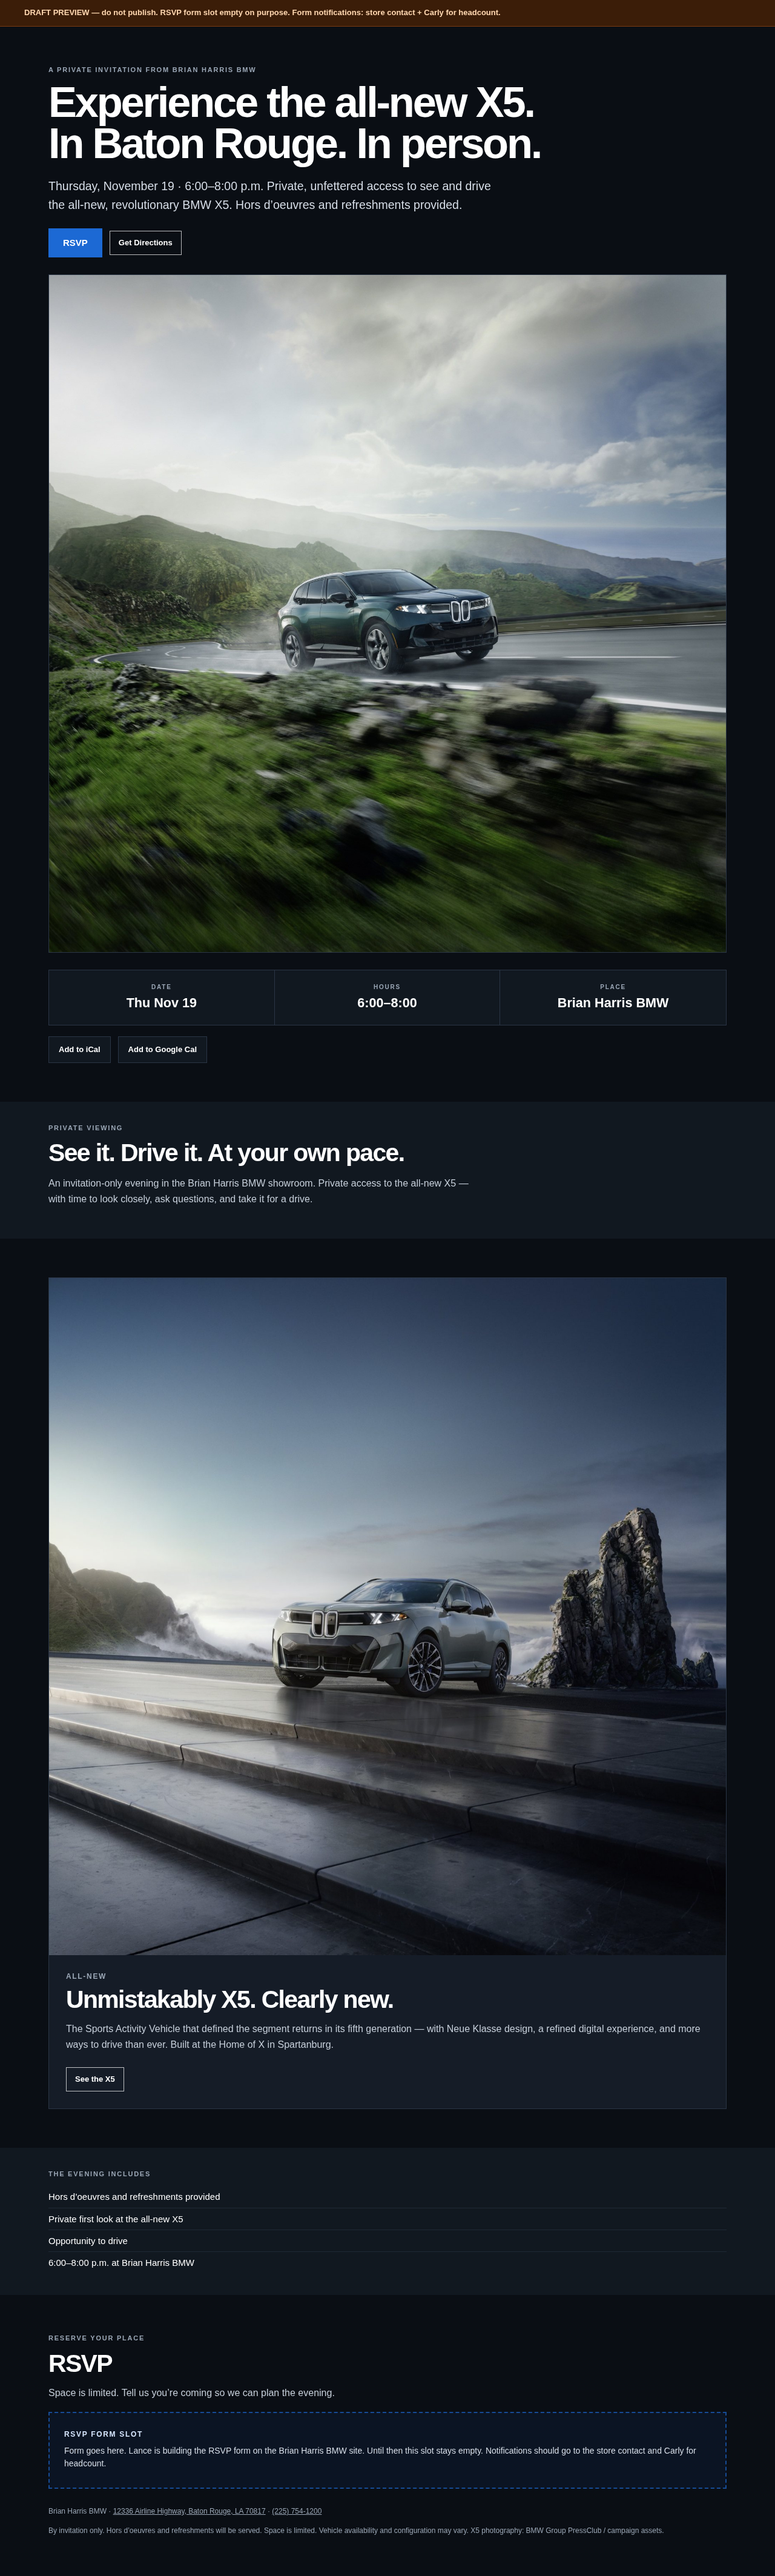
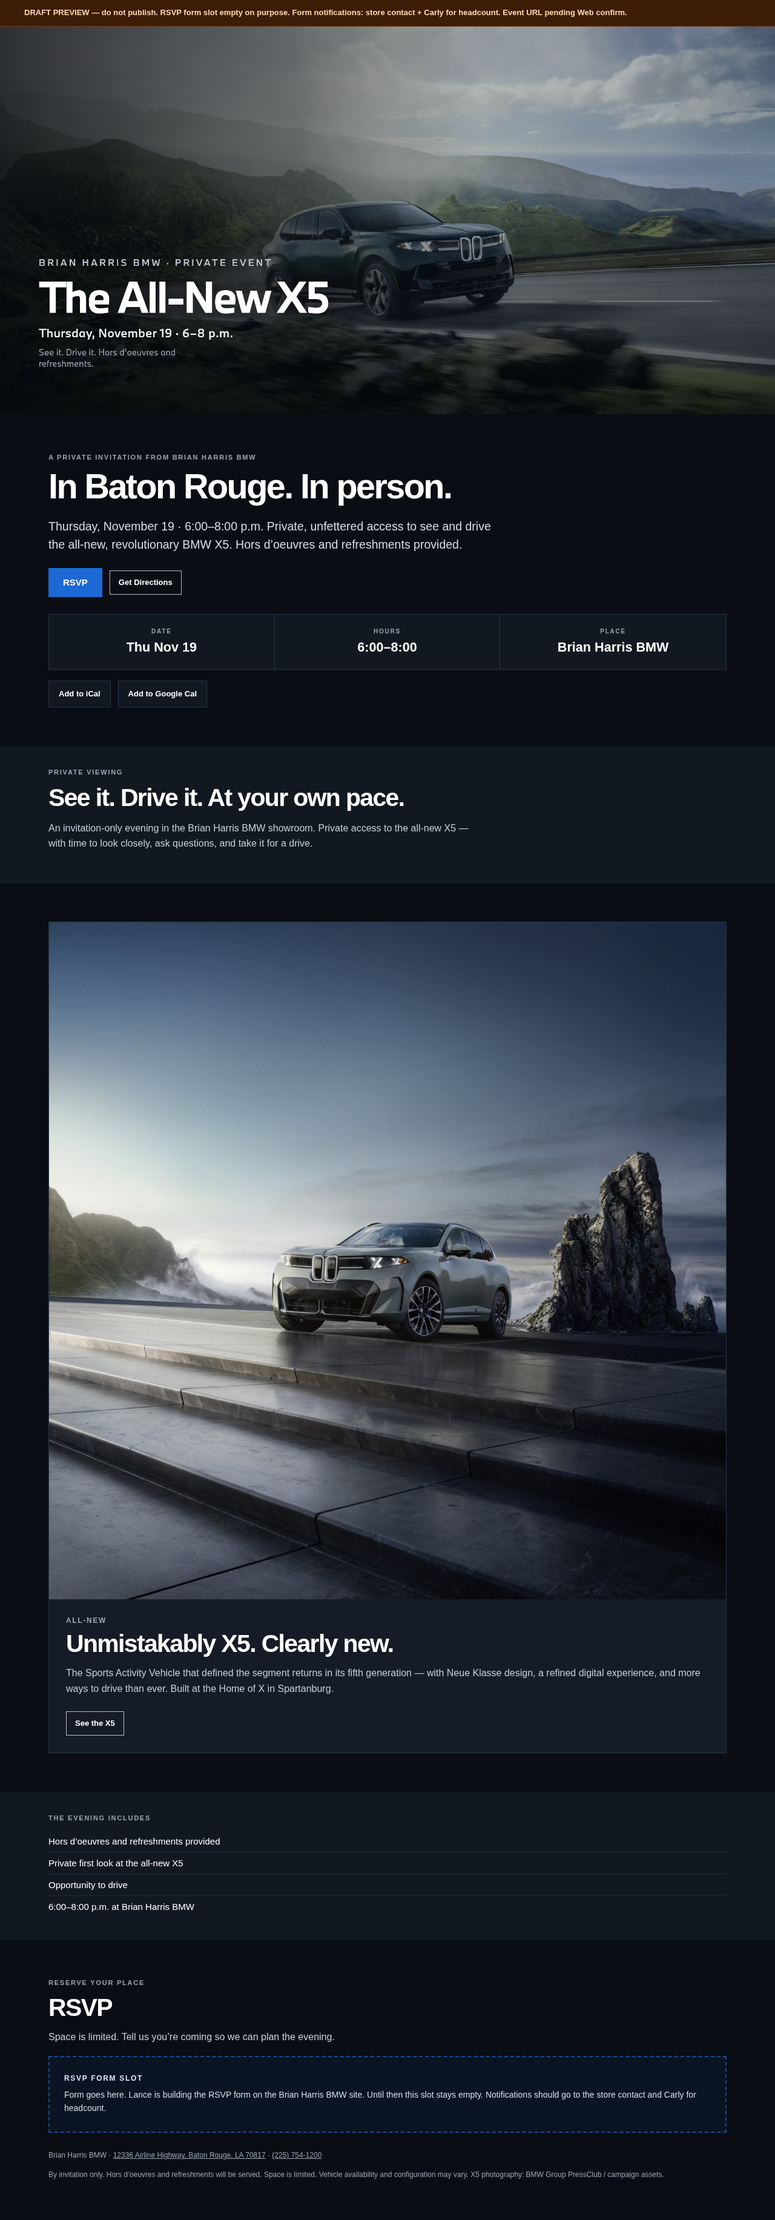
BHBMW X5 private event: typed hero graphics
Composite event title onto the real mountain-road X5 photo with BMW
Type Next. Swap into invite, Nov sales event card, Issue 03 panel,
and page/CMS preview. No AI car art.

diff --git a/emails/november-2026/bh-bmw-x5-private-showing-page.html b/emails/november-2026/bh-bmw-x5-private-showing-page.html
@@ -11,7 +11,7 @@
 <!-- DRAFT ONLY — not for live publish until Lance OK.
      RSVP form: Lance builds on Motive; paste form into the marked slot below.
      RSVP notifications should email the store contact + Carly for headcount.
-     RSVP URL placeholder used in email: #RSVP-LINK-TBD
+     Event page URL: https://brianharrisbmw.com/x5-private-event (PENDING Web confirm).
      Platform: RideMotive (brianharrisbmw.com). Fonts: BMW Type Next / Helvetica / Arial.
      Never name the caterer. No alcohol language. -->
 <div class="bhbmw-x5-event-page" style="font-family: bmw, 'BMW Type Next', BMWTypeNext, Helvetica, Arial, sans-serif;">
@@ -38,7 +38,7 @@
 .bhbmw-x5-event-page .wrap { max-width:1120px; margin:0 auto; width:100%; }
 .bhbmw-x5-event-page .eyebrow { margin:0 0 12px; color:var(--muted); font-size:11px; line-height:1.4; letter-spacing:.16em; text-transform:uppercase; font-weight:700; }
 .bhbmw-x5-event-page h1, .bhbmw-x5-event-page h2, .bhbmw-x5-event-page h3, .bhbmw-x5-event-page p { margin-top:0; }
-.bhbmw-x5-event-page .h1 { margin:0; max-width:920px; font-size:clamp(2.35rem,5.8vw,4.4rem); line-height:.96; letter-spacing:-.045em; font-weight:700; }
+.bhbmw-x5-event-page .h1 { margin:0; max-width:920px; font-size:clamp(2.1rem,4.8vw,3.6rem); line-height:.98; letter-spacing:-.045em; font-weight:700; }
 .bhbmw-x5-event-page .h2 { margin:0; font-size:clamp(1.7rem,3.2vw,2.8rem); line-height:1.05; letter-spacing:-.04em; font-weight:700; }
 .bhbmw-x5-event-page .body-lg { max-width:760px; color:var(--soft); font-size:clamp(1.05rem,1.7vw,1.22rem); line-height:1.55; }
 .bhbmw-x5-event-page .body { color:#c5ced9; font-size:16px; line-height:1.62; }
@@ -46,7 +46,11 @@
 .bhbmw-x5-event-page .section-tight { padding:36px 40px; }
 .bhbmw-x5-event-page .dark { background:var(--ink); }
 .bhbmw-x5-event-page .elevated { background:var(--elevated); }
-.bhbmw-x5-event-page .hero-media { margin-top:28px; border:1px solid var(--border); background:#05080d; overflow:hidden; }
+.bhbmw-x5-event-page .sr-only {
+  position:absolute !important; width:1px; height:1px; padding:0; margin:-1px;
+  overflow:hidden; clip:rect(0,0,0,0); white-space:nowrap; border:0;
+}
+.bhbmw-x5-event-page .hero-media { margin:0; border:0; background:#05080d; overflow:hidden; }
 .bhbmw-x5-event-page .hero-media img { display:block; width:100%; height:auto; }
 .bhbmw-x5-event-page .detail-bar { display:grid; grid-template-columns:repeat(3,minmax(0,1fr)); border:1px solid var(--border); background:var(--elevated); margin-top:28px; }
 .bhbmw-x5-event-page .detail-cell { padding:22px 16px; text-align:center; border-right:1px solid var(--border); }
@@ -105,20 +109,24 @@
 }
 </style>
 
-<!-- Optional draft banner: remove before Motive paste to live page -->
-<div class="draft-banner">DRAFT PREVIEW — do not publish. RSVP form slot empty on purpose. Form notifications: store contact + Carly for headcount.</div>
+<div class="draft-banner">DRAFT PREVIEW — do not publish. RSVP form slot empty on purpose. Form notifications: store contact + Carly for headcount. Event URL pending Web confirm.</div>
+
+<section class="hero-media" aria-label="Event hero">
+  <picture>
+    <source media="(max-width: 760px)" srcset="https://thecooperativeagency.github.io/seo-pages/assets/nov-2026-bhbmw-x5-private-showing/x5-private-event-hero-mobile-1080x1350.png">
+    <img src="https://thecooperativeagency.github.io/seo-pages/assets/nov-2026-bhbmw-x5-private-showing/x5-private-event-hero-2400x1200.png" width="2400" height="1200" alt="Brian Harris BMW Private Event: The All-New X5. Thursday, November 19, 6–8 p.m. See it. Drive it. Hors d'oeuvres and refreshments." loading="eager">
+  </picture>
+  <h1 class="sr-only">The All-New X5 — Private Event at Brian Harris BMW, Thursday, November 19, 6 to 8 p.m.</h1>
+</section>
 
 <section class="section dark">
   <div class="wrap">
     <p class="eyebrow">A private invitation from Brian Harris BMW</p>
-    <h1 class="h1">Experience the all-new X5.<br>In Baton Rouge. In person.</h1>
+    <h2 class="h1">In Baton Rouge. In person.</h2>
     <p class="body-lg" style="margin-top:22px;">Thursday, November 19 · 6:00–8:00 p.m. Private, unfettered access to see and drive the all-new, revolutionary BMW X5. Hors d&rsquo;oeuvres and refreshments provided.</p>
     <div class="btn-row">
       <a class="btn-primary" href="#rsvp-form-slot">RSVP</a>
       <a class="btn-ghost" href="https://www.google.com/maps/dir/?api=1&destination=12336+Airline+Highway,+Baton+Rouge,+LA+70817" target="_blank" rel="noopener">Get Directions</a>
-    </div>
-    <div class="hero-media">
-      <img src="https://thecooperativeagency.github.io/seo-pages/assets/bmw-x5-2027-all-new/ice-front-3-4-mountain-web.jpg" alt="The all-new BMW X5" width="1120" height="630" loading="eager">
     </div>
     <div class="detail-bar" aria-label="Event details">
       <div class="detail-cell">
@@ -184,16 +192,10 @@
     <p class="eyebrow">Reserve your place</p>
     <h2 class="h2">RSVP</h2>
     <p class="body" style="margin:14px 0 18px; max-width:680px;">Space is limited. Tell us you&rsquo;re coming so we can plan the evening.</p>
-
-    <!-- ============================================================
-         RSVP FORM SLOT — paste Lance's Motive form / embed here.
-         Route form notifications to: store contact + Carly (headcount).
-         ============================================================ -->
     <div class="rsvp-slot" data-rsvp-slot="empty">
       <p class="rsvp-slot-label">RSVP form slot</p>
       <p class="rsvp-slot-note">Form goes here. Lance is building the RSVP form on the Brian Harris BMW site. Until then this slot stays empty. Notifications should go to the store contact and Carly for headcount.</p>
     </div>
-
     <p class="fineprint" style="margin-top:28px;">Brian Harris BMW · <a href="https://www.google.com/maps/dir/?api=1&destination=12336+Airline+Highway,+Baton+Rouge,+LA+70817" style="color:#9aa6b5;" target="_blank" rel="noopener">12336 Airline Highway, Baton Rouge, LA 70817</a> · <a href="tel:2257541200" style="color:#9aa6b5;">(225) 754-1200</a></p>
     <p class="fineprint" style="margin-top:12px;">By invitation only. Hors d&rsquo;oeuvres and refreshments will be served. Space is limited. Vehicle availability and configuration may vary. X5 photography: BMW Group PressClub / campaign assets.</p>
   </div>
@@ -230,7 +232,7 @@
     "telephone": "+1-225-754-1200"
   },
   "image": [
-    "https://thecooperativeagency.github.io/seo-pages/assets/bmw-x5-2027-all-new/ice-front-3-4-mountain-web.jpg"
+    "https://thecooperativeagency.github.io/seo-pages/assets/nov-2026-bhbmw-x5-private-showing/x5-private-event-hero-2400x1200.png"
   ]
 }
 </script>

diff --git a/emails/november-2026/bh-bmw-x5-private-showing-cms-block.html b/emails/november-2026/bh-bmw-x5-private-showing-cms-block.html
@@ -1,7 +1,7 @@
 <!-- DRAFT ONLY — not for live publish until Lance OK.
      RSVP form: Lance builds on Motive; paste form into the marked slot below.
      RSVP notifications should email the store contact + Carly for headcount.
-     RSVP URL placeholder used in email: #RSVP-LINK-TBD
+     Event page URL: https://brianharrisbmw.com/x5-private-event (PENDING Web confirm).
      Platform: RideMotive (brianharrisbmw.com). Fonts: BMW Type Next / Helvetica / Arial.
      Never name the caterer. No alcohol language. -->
 <div class="bhbmw-x5-event-page" style="font-family: bmw, 'BMW Type Next', BMWTypeNext, Helvetica, Arial, sans-serif;">
@@ -28,7 +28,7 @@
 .bhbmw-x5-event-page .wrap { max-width:1120px; margin:0 auto; width:100%; }
 .bhbmw-x5-event-page .eyebrow { margin:0 0 12px; color:var(--muted); font-size:11px; line-height:1.4; letter-spacing:.16em; text-transform:uppercase; font-weight:700; }
 .bhbmw-x5-event-page h1, .bhbmw-x5-event-page h2, .bhbmw-x5-event-page h3, .bhbmw-x5-event-page p { margin-top:0; }
-.bhbmw-x5-event-page .h1 { margin:0; max-width:920px; font-size:clamp(2.35rem,5.8vw,4.4rem); line-height:.96; letter-spacing:-.045em; font-weight:700; }
+.bhbmw-x5-event-page .h1 { margin:0; max-width:920px; font-size:clamp(2.1rem,4.8vw,3.6rem); line-height:.98; letter-spacing:-.045em; font-weight:700; }
 .bhbmw-x5-event-page .h2 { margin:0; font-size:clamp(1.7rem,3.2vw,2.8rem); line-height:1.05; letter-spacing:-.04em; font-weight:700; }
 .bhbmw-x5-event-page .body-lg { max-width:760px; color:var(--soft); font-size:clamp(1.05rem,1.7vw,1.22rem); line-height:1.55; }
 .bhbmw-x5-event-page .body { color:#c5ced9; font-size:16px; line-height:1.62; }
@@ -36,7 +36,11 @@
 .bhbmw-x5-event-page .section-tight { padding:36px 40px; }
 .bhbmw-x5-event-page .dark { background:var(--ink); }
 .bhbmw-x5-event-page .elevated { background:var(--elevated); }
-.bhbmw-x5-event-page .hero-media { margin-top:28px; border:1px solid var(--border); background:#05080d; overflow:hidden; }
+.bhbmw-x5-event-page .sr-only {
+  position:absolute !important; width:1px; height:1px; padding:0; margin:-1px;
+  overflow:hidden; clip:rect(0,0,0,0); white-space:nowrap; border:0;
+}
+.bhbmw-x5-event-page .hero-media { margin:0; border:0; background:#05080d; overflow:hidden; }
 .bhbmw-x5-event-page .hero-media img { display:block; width:100%; height:auto; }
 .bhbmw-x5-event-page .detail-bar { display:grid; grid-template-columns:repeat(3,minmax(0,1fr)); border:1px solid var(--border); background:var(--elevated); margin-top:28px; }
 .bhbmw-x5-event-page .detail-cell { padding:22px 16px; text-align:center; border-right:1px solid var(--border); }
@@ -95,20 +99,24 @@
 }
 </style>
 
-<!-- Optional draft banner: remove before Motive paste to live page -->
-<div class="draft-banner">DRAFT PREVIEW — do not publish. RSVP form slot empty on purpose. Form notifications: store contact + Carly for headcount.</div>
+<div class="draft-banner">DRAFT PREVIEW — do not publish. RSVP form slot empty on purpose. Form notifications: store contact + Carly for headcount. Event URL pending Web confirm.</div>
+
+<section class="hero-media" aria-label="Event hero">
+  <picture>
+    <source media="(max-width: 760px)" srcset="https://thecooperativeagency.github.io/seo-pages/assets/nov-2026-bhbmw-x5-private-showing/x5-private-event-hero-mobile-1080x1350.png">
+    <img src="https://thecooperativeagency.github.io/seo-pages/assets/nov-2026-bhbmw-x5-private-showing/x5-private-event-hero-2400x1200.png" width="2400" height="1200" alt="Brian Harris BMW Private Event: The All-New X5. Thursday, November 19, 6–8 p.m. See it. Drive it. Hors d'oeuvres and refreshments." loading="eager">
+  </picture>
+  <h1 class="sr-only">The All-New X5 — Private Event at Brian Harris BMW, Thursday, November 19, 6 to 8 p.m.</h1>
+</section>
 
 <section class="section dark">
   <div class="wrap">
     <p class="eyebrow">A private invitation from Brian Harris BMW</p>
-    <h1 class="h1">Experience the all-new X5.<br>In Baton Rouge. In person.</h1>
+    <h2 class="h1">In Baton Rouge. In person.</h2>
     <p class="body-lg" style="margin-top:22px;">Thursday, November 19 · 6:00–8:00 p.m. Private, unfettered access to see and drive the all-new, revolutionary BMW X5. Hors d&rsquo;oeuvres and refreshments provided.</p>
     <div class="btn-row">
       <a class="btn-primary" href="#rsvp-form-slot">RSVP</a>
       <a class="btn-ghost" href="https://www.google.com/maps/dir/?api=1&destination=12336+Airline+Highway,+Baton+Rouge,+LA+70817" target="_blank" rel="noopener">Get Directions</a>
-    </div>
-    <div class="hero-media">
-      <img src="https://thecooperativeagency.github.io/seo-pages/assets/bmw-x5-2027-all-new/ice-front-3-4-mountain-web.jpg" alt="The all-new BMW X5" width="1120" height="630" loading="eager">
     </div>
     <div class="detail-bar" aria-label="Event details">
       <div class="detail-cell">
@@ -174,16 +182,10 @@
     <p class="eyebrow">Reserve your place</p>
     <h2 class="h2">RSVP</h2>
     <p class="body" style="margin:14px 0 18px; max-width:680px;">Space is limited. Tell us you&rsquo;re coming so we can plan the evening.</p>
-
-    <!-- ============================================================
-         RSVP FORM SLOT — paste Lance's Motive form / embed here.
-         Route form notifications to: store contact + Carly (headcount).
-         ============================================================ -->
     <div class="rsvp-slot" data-rsvp-slot="empty">
       <p class="rsvp-slot-label">RSVP form slot</p>
       <p class="rsvp-slot-note">Form goes here. Lance is building the RSVP form on the Brian Harris BMW site. Until then this slot stays empty. Notifications should go to the store contact and Carly for headcount.</p>
     </div>
-
     <p class="fineprint" style="margin-top:28px;">Brian Harris BMW · <a href="https://www.google.com/maps/dir/?api=1&destination=12336+Airline+Highway,+Baton+Rouge,+LA+70817" style="color:#9aa6b5;" target="_blank" rel="noopener">12336 Airline Highway, Baton Rouge, LA 70817</a> · <a href="tel:2257541200" style="color:#9aa6b5;">(225) 754-1200</a></p>
     <p class="fineprint" style="margin-top:12px;">By invitation only. Hors d&rsquo;oeuvres and refreshments will be served. Space is limited. Vehicle availability and configuration may vary. X5 photography: BMW Group PressClub / campaign assets.</p>
   </div>
@@ -220,7 +222,7 @@
     "telephone": "+1-225-754-1200"
   },
   "image": [
-    "https://thecooperativeagency.github.io/seo-pages/assets/bmw-x5-2027-all-new/ice-front-3-4-mountain-web.jpg"
+    "https://thecooperativeagency.github.io/seo-pages/assets/nov-2026-bhbmw-x5-private-showing/x5-private-event-hero-2400x1200.png"
   ]
 }
 </script>

diff --git a/emails/november-2026/bh-bmw-november-2026-sales-email.html b/emails/november-2026/bh-bmw-november-2026-sales-email.html
@@ -113,17 +113,23 @@ span.MsoHyperlink, span.MsoHyperlinkFollowed { color:inherit; mso-style-priority
 </table></td></tr>
 
 
+
 <!-- PRIVATE EVENT INVITE · PENDING URL until Web confirms brianharrisbmw.com/x5-private-event -->
 <tr><td align="left" style="Margin:0;padding:8px 20px 8px">
 <table cellpadding="0" cellspacing="0" width="100%" role="presentation" style="mso-table-lspace:0pt;mso-table-rspace:0pt;border-collapse:collapse;border-spacing:0px;background-color:#0a0e14;border:1px solid #2a3545">
-<tr><td align="center" style="padding:22px 24px 8px;Margin:0">
+<tr><td align="center" style="padding:0;Margin:0;font-size:0">
+<a href="https://brianharrisbmw.com/x5-private-event?utm_source=newsletter&utm_medium=email&utm_campaign=nov-2026-sales&utm_content=x5-private-event-hero" target="_blank">
+<img src="https://thecooperativeagency.github.io/seo-pages/assets/nov-2026-bhbmw-x5-private-showing/x5-private-event-hero-email-card-1200x480.jpg" width="560" class="adapt-img" style="display:block;font-size:14px;border:0;outline:none;text-decoration:none;margin:0;width:100%;max-width:560px;height:auto" alt="Brian Harris BMW Private Event: The All-New X5. Thursday, November 19, 6–8 p.m. See it. Drive it. Hors d'oeuvres and refreshments.">
+</a>
+</td></tr>
+<tr><td align="center" style="padding:18px 24px 8px;Margin:0">
 <p style="Margin:0;font-family:arial, 'helvetica neue', helvetica, sans-serif;line-height:16px;letter-spacing:2px;color:#9aa6b5;font-size:11px;text-transform:uppercase">Private Event · Thursday, November 19</p>
 </td></tr>
 <tr><td align="center" style="padding:4px 24px 10px;Margin:0">
-<h2 style="Margin:0;font-family:arial, 'helvetica neue', helvetica, sans-serif;font-size:26px;font-weight:bold;line-height:32px;color:#FFFFFF;text-align:center">The all-new X5. A private evening.</h2>
+<h2 style="Margin:0;font-family:arial, 'helvetica neue', helvetica, sans-serif;font-size:24px;font-weight:bold;line-height:30px;color:#FFFFFF;text-align:center">A private evening with the all-new X5.</h2>
 </td></tr>
 <tr><td align="center" style="padding:0 28px 16px;Margin:0">
-<p style="Margin:0;font-family:arial, 'helvetica neue', helvetica, sans-serif;line-height:22px;color:#d7dee8;font-size:15px;text-align:center">6:00&ndash;8:00 p.m. at Brian Harris BMW. Private access to see and drive the all-new X5. Hors d&rsquo;oeuvres and refreshments provided.</p>
+<p style="Margin:0;font-family:arial, 'helvetica neue', helvetica, sans-serif;line-height:22px;color:#d7dee8;font-size:15px;text-align:center">6:00&ndash;8:00 p.m. at Brian Harris BMW. Private access to see and drive it. Hors d&rsquo;oeuvres and refreshments provided.</p>
 </td></tr>
 <tr><td align="center" style="padding:0 24px 24px;Margin:0">
 <span class="es-button-border" style="border-style:solid;border-color:#1c69d4;background:#1c69d4;border-width:0;display:inline-block;border-radius:5px;width:auto">

diff --git a/Brian Harris BMW/bhbmw-news-issue-03-november-2026.html b/Brian Harris BMW/bhbmw-news-issue-03-november-2026.html
@@ -418,6 +418,10 @@
       line-height: 1.55;
       max-width: 36em;
     }
+
+    .event-invite { padding: 0; overflow: hidden; }
+    .event-invite .hero-img { display: block; width: 100%; height: auto; }
+    .event-invite .event-body { padding: 24px 28px 26px; }
     .event-invite .cta {
       display: inline-flex;
       align-items: center;
@@ -505,15 +509,19 @@
     </nav>
     <p class="open">November is when Baton Rouge, Louisiana, finally gets mornings worth driving in — sweater at seven, gone by noon. Alabama comes to Tiger Stadium in daylight for the first time since 2010. There's an electric X with an M60 badge and 603 horsepower, oxtail on Westfork worth crossing town for, and a wedge-shaped M1 that started all of this. Get in. Go.</p>
 
+
     <!-- PRIVATE EVENT INVITE · PENDING URL until Web confirms brianharrisbmw.com/x5-private-event -->
     <aside class="event-invite" id="x5-private-event" aria-label="Private X5 event invitation">
-      <p class="kicker">Private Event · Thursday, November 19 · 6–8 p.m.</p>
-      <h2>The all-new X5. A private evening.</h2>
-      <p>Join us at Brian Harris BMW for private access to see and drive the all-new X5. Hors d&rsquo;oeuvres and refreshments provided.</p>
-      <a class="cta" href="https://brianharrisbmw.com/x5-private-event?utm_source=ultimate-driver&utm_medium=site&utm_campaign=ultimate-driver-issue-03&utm_content=x5-private-event">RSVP and event details</a>
+      <a href="https://brianharrisbmw.com/x5-private-event?utm_source=ultimate-driver&amp;utm_medium=site&amp;utm_campaign=ultimate-driver-issue-03&amp;utm_content=x5-private-event-hero">
+        <img class="hero-img" src="https://thecooperativeagency.github.io/seo-pages/assets/nov-2026-bhbmw-x5-private-showing/x5-private-event-hero-email-card-1200x480.jpg" width="1200" height="480" alt="Brian Harris BMW Private Event: The All-New X5. Thursday, November 19, 6–8 p.m. See it. Drive it. Hors d'oeuvres and refreshments." loading="lazy" />
+      </a>
+      <div class="event-body">
+        <p class="kicker">Private Event · Thursday, November 19 · 6–8 p.m.</p>
+        <h2>A private evening with the all-new X5.</h2>
+        <p>Join us at Brian Harris BMW for private access to see and drive it. Hors d&rsquo;oeuvres and refreshments provided.</p>
+        <a class="cta" href="https://brianharrisbmw.com/x5-private-event?utm_source=ultimate-driver&amp;utm_medium=site&amp;utm_campaign=ultimate-driver-issue-03&amp;utm_content=x5-private-event">RSVP and event details</a>
+      </div>
     </aside>
-
-
 
     <section class="sec" id="x5">
       <div class="cover-shot">

diff --git a/emails/november-2026/bh-bmw-x5-private-showing-invite.html b/emails/november-2026/bh-bmw-x5-private-showing-invite.html
@@ -116,7 +116,7 @@ span.MsoHyperlink, span.MsoHyperlinkFollowed { color:inherit; mso-style-priority
 <tr><td align="left" style="Margin:0;padding:14px 20px 0;">
 <table cellpadding="0" cellspacing="0" width="100%" role="presentation" style="mso-table-lspace:0pt;mso-table-rspace:0pt;border-collapse:collapse;border-spacing:0px;">
 <tr><td align="center" style="padding:0;Margin:0;font-size:0px;border:1px solid #2a3545;background:#05080d;">
-<img src="https://thecooperativeagency.github.io/seo-pages/assets/bmw-x5-2027-all-new/ice-front-3-4-mountain-web.jpg" width="560" class="adapt-img" style="display:block;font-size:14px;border:0;outline:none;text-decoration:none;margin:0;" alt="The all-new BMW X5">
+<img src="https://thecooperativeagency.github.io/seo-pages/assets/nov-2026-bhbmw-x5-private-showing/x5-private-event-hero-email-1200x600.jpg" width="560" class="adapt-img" style="display:block;font-size:14px;border:0;outline:none;text-decoration:none;margin:0;" alt="Brian Harris BMW Private Event: The All-New X5. Thursday, November 19, 6–8 p.m. See it. Drive it. Hors d'oeuvres and refreshments.">
 </td></tr>
 </table>
 </td></tr>
